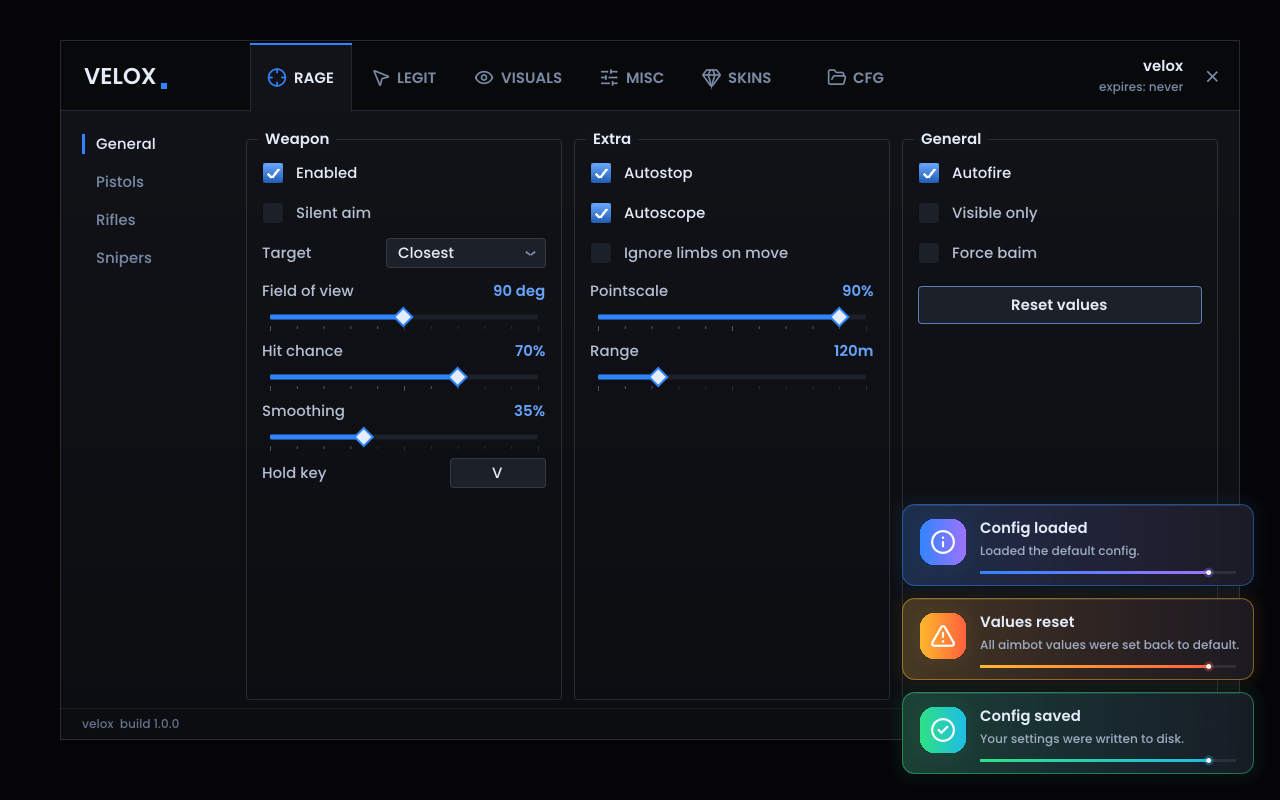
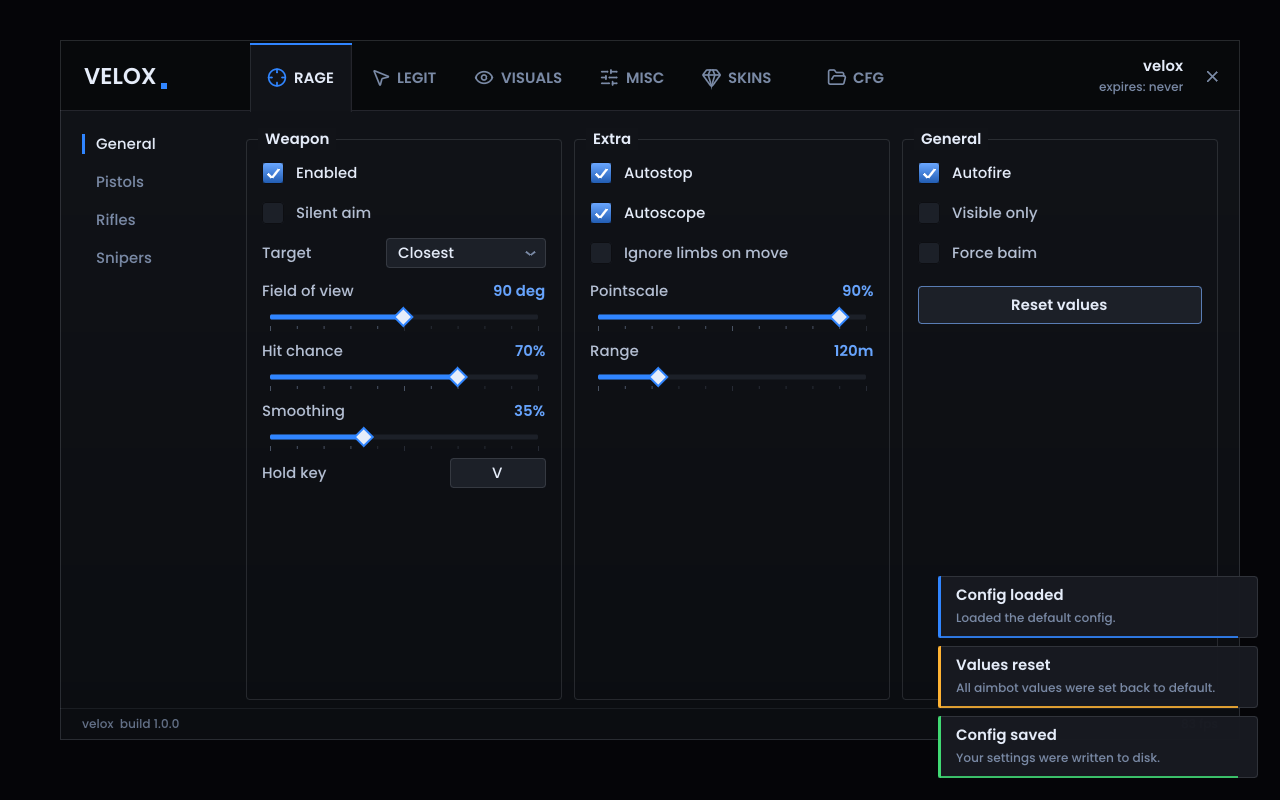
Simplify toasts: flat card, colored edge, title + text, progress line
Claude-Session: https://claude.ai/code/session_01CX6p4MP945WdrDNWWTynnL

Changed region(s): [[0.6875, 0.625, 1.0, 0.9688]]

diff --git a/vx/vx.cpp b/vx/vx.cpp
@@ -833,26 +833,6 @@ namespace vx
     }
 
     // ---------------------------------------------------------------- toasts
-    static void GradH(ImDrawList* dl, ImVec2 a, ImVec2 b, const ImVec4& cl, const ImVec4& cr, float r)
-    {
-        float w = b.x - a.x, h = b.y - a.y;
-        if (w <= 0.f || h <= 0.f) return;
-        r = fminf(r, fminf(w, h) * 0.5f);
-        int n = (int)ceilf(w);
-        for (int i = 0; i < n; ++i) {
-            float x = a.x + i, x1 = fminf(x + 1.f, b.x), cx = x + 0.5f - a.x, inset = 0.f;
-            if (cx < r)          { float d = r - cx;       inset = r - sqrtf(fmaxf(r * r - d * d, 0.f)); }
-            else if (cx > w - r) { float d = cx - (w - r); inset = r - sqrtf(fmaxf(r * r - d * d, 0.f)); }
-            dl->AddRectFilled(ImVec2(x, a.y + inset), ImVec2(x1, b.y - inset), U32(Mix(cl, cr, cx / w)));
-        }
-    }
-    static void Glow(ImDrawList* dl, ImVec2 a, ImVec2 b, const ImVec4& c, float r, float k)
-    {
-        for (int i = 1; i <= 7; ++i)
-            dl->AddRect(ImVec2(a.x - i * 1.7f, a.y - i * 1.7f), ImVec2(b.x + i * 1.7f, b.y + i * 1.7f),
-                        U32(A(c, k * 0.07f * (8 - i) / 7.f)), r + i * 1.7f, 0, 2.f);
-    }
-
     struct Toast { std::string title, text; int kind; float life, age, y; bool placed; };
     static std::vector<Toast> g_toasts;
 
@@ -867,13 +847,6 @@ namespace vx
         Notify(kind == 1 ? "Success" : (kind == 2 ? "Warning" : "Info"), text, kind, seconds);
     }
 
-    static float EaseOutBack(float t)
-    {
-        const float c1 = 1.70158f, c3 = c1 + 1.f;
-        float u = t - 1.f;
-        return 1.f + c3 * u * u * u + c1 * u * u;
-    }
-
     void RenderNotifications()
     {
         ImGuiIO& io = ImGui::GetIO();
@@ -881,75 +854,35 @@ namespace vx
         ImDrawList* dl = ImGui::GetForegroundDrawList();
         const Theme& t = g_cur;
         ImFont* fb = g_fonts.bold; ImFont* fs = g_fonts.small;
-        const float W = 352.f, H = 82.f, gap = 12.f;
-        int n = (int)g_toasts.size();
+        const float W = 320.f, H = 62.f, gap = 8.f;
 
-        for (int i = 0; i < n;) {
-            Toast& k = g_toasts[i];
-            k.age += dt;
-            if (k.age >= k.life + 0.4f) { g_toasts.erase(g_toasts.begin() + i); --n; continue; }
-            ++i;
+        for (size_t i = 0; i < g_toasts.size();) {
+            g_toasts[i].age += dt;
+            if (g_toasts[i].age >= g_toasts[i].life + 0.25f) g_toasts.erase(g_toasts.begin() + i);
+            else ++i;
         }
-        n = (int)g_toasts.size();
+        int n = (int)g_toasts.size();
         for (int i = 0; i < n; ++i) {
             Toast& k = g_toasts[i];
-            float target = io.DisplaySize.y - 26.f - H - (n - 1 - i) * (H + gap);
+            float target = io.DisplaySize.y - 22.f - H - (n - 1 - i) * (H + gap);
             if (!k.placed) { k.y = target; k.placed = true; }
-            k.y += (target - k.y) * (1.f - expf(-dt * 14.f));
+            k.y += (target - k.y) * (1.f - expf(-dt * 16.f));
 
-            ImVec4 c1, c2;
-            int icon;
-            if (k.kind == 1)      { c1 = ImVec4(0.18f, 0.88f, 0.52f, 1); c2 = ImVec4(0.12f, 0.74f, 0.90f, 1); icon = (int)Icon::Check; }
-            else if (k.kind == 2) { c1 = ImVec4(1.00f, 0.72f, 0.18f, 1); c2 = ImVec4(1.00f, 0.38f, 0.24f, 1); icon = (int)Icon::Warn; }
-            else                  { c1 = t.acc1;                          c2 = t.acc3;                          icon = (int)Icon::Info; }
-
-            float in  = EaseOutBack(Clamp01(k.age / 0.55f));
-            float out = k.age > k.life ? EaseOutCubic((k.age - k.life) / 0.4f) : 0.f;
-            float fade = Clamp01(k.age / 0.2f) * (1.f - out);
-            float x = io.DisplaySize.x - 26.f - W + (1.f - in) * (W + 60.f) + out * (W + 60.f);
+            ImVec4 kc = k.kind == 1 ? ImVec4(0.25f, 0.85f, 0.45f, 1) : (k.kind == 2 ? ImVec4(1.f, 0.70f, 0.20f, 1) : t.acc1);
+            float in  = EaseOutCubic(Clamp01(k.age / 0.25f));
+            float out = k.age > k.life ? EaseOutCubic((k.age - k.life) / 0.25f) : 0.f;
+            float x = io.DisplaySize.x - 22.f - W + (1.f - in) * (W + 30.f) + out * (W + 30.f);
             ImVec2 a(x, k.y), b(x + W, k.y + H);
 
-            ImGui::PushStyleVar(ImGuiStyleVar_Alpha, fade);
-            Glow(dl, a, b, c1, 12.f, 0.55f);
-            dl->AddRectFilled(a, b, U32(A(t.panel_top, 0.98f)), 12.f);
-            GradH(dl, a, b, A(c1, 0.20f), A(c2, 0.02f), 12.f);
-            dl->AddRect(a, b, U32(A(c1, 0.45f)), 12.f);
-            dl->AddLine(ImVec2(a.x + 14, a.y + 1), ImVec2(b.x - 14, a.y + 1), U32(ImVec4(1, 1, 1, 0.10f)));
-
-            // sweep that runs once when the toast arrives
-            if (k.age < 0.9f) {
-                float u = k.age / 0.9f, x0 = a.x - 60.f + (W + 120.f) * EaseOutCubic(u);
-                dl->PushClipRect(a, b, true);
-                dl->AddQuadFilled(ImVec2(x0, a.y), ImVec2(x0 + 46, a.y), ImVec2(x0 + 6, b.y), ImVec2(x0 - 40, b.y), U32(ImVec4(1, 1, 1, 0.13f * (1.f - u))));
-                dl->PopClipRect();
-            }
-
-            // badge
-            ImVec2 b0(a.x + 18, a.y + (H - 46.f) * 0.5f - 3.f), b1(b0.x + 46, b0.y + 46);
-            Glow(dl, b0, b1, c1, 14.f, 0.45f);
-            GradH(dl, b0, b1, c1, c2, 14.f);
-            DrawSvgIcon(dl, (Icon)icon, ImVec2((b0.x + b1.x) * 0.5f, (b0.y + b1.y) * 0.5f), 26.f, U32(ImVec4(1, 1, 1, 1)), 1.f);
-            if (k.age < 0.8f) {
-                float u = k.age / 0.8f;
-                dl->AddCircle(ImVec2((b0.x + b1.x) * 0.5f, (b0.y + b1.y) * 0.5f), 24.f + 18.f * EaseOutCubic(u), U32(A(c1, 0.55f * (1.f - u))), 40, 2.f);
-            }
-
-            Txt(dl, fb, ImVec2(a.x + 78, a.y + 13), U32(t.text), k.title.c_str());
-            dl->PushClipRect(ImVec2(a.x + 78, a.y), ImVec2(b.x - 14, b.y), true);
-            Txt(dl, fs, ImVec2(a.x + 78, a.y + 38), U32(Mix(t.text_dim, t.text, 0.35f)), k.text.c_str());
+            dl->AddRectFilled(a, b, U32(A(t.panel_top, 0.98f)), 3.f);
+            dl->AddRect(a, b, U32(A(t.text, 0.12f)), 3.f);
+            dl->AddRectFilled(a, ImVec2(a.x + 3, b.y), U32(kc), 3.f, ImDrawFlags_RoundCornersLeft);
+            Txt(dl, fb, ImVec2(a.x + 18, a.y + 8), U32(t.text), k.title.c_str());
+            dl->PushClipRect(ImVec2(a.x, a.y), ImVec2(b.x - 10, b.y), true);
+            Txt(dl, fs, ImVec2(a.x + 18, a.y + 33), U32(t.text_dim), k.text.c_str());
             dl->PopClipRect();
-
-            // time bar
             float pk = Clamp01(1.f - k.age / k.life);
-            ImVec2 p0(a.x + 78, b.y - 15), p1(b.x - 18, b.y - 12);
-            GradH(dl, p0, p1, A(t.text, 0.09f), A(t.text, 0.09f), 1.5f);
-            if (pk > 0.f) {
-                ImVec2 pe(p0.x + (p1.x - p0.x) * pk, p1.y);
-                GradH(dl, p0, pe, c1, c2, 1.5f);
-                dl->AddCircleFilled(ImVec2(pe.x, (p0.y + p1.y) * 0.5f), 5.f, U32(A(c2, 0.30f)), 16);
-                dl->AddCircleFilled(ImVec2(pe.x, (p0.y + p1.y) * 0.5f), 2.5f, U32(ImVec4(1, 1, 1, 0.95f)), 12);
-            }
-            ImGui::PopStyleVar();
+            dl->AddRectFilled(ImVec2(a.x + 3, b.y - 2), ImVec2(a.x + 3 + (W - 3) * pk, b.y), U32(A(kc, 0.85f)));
         }
     }
 }
